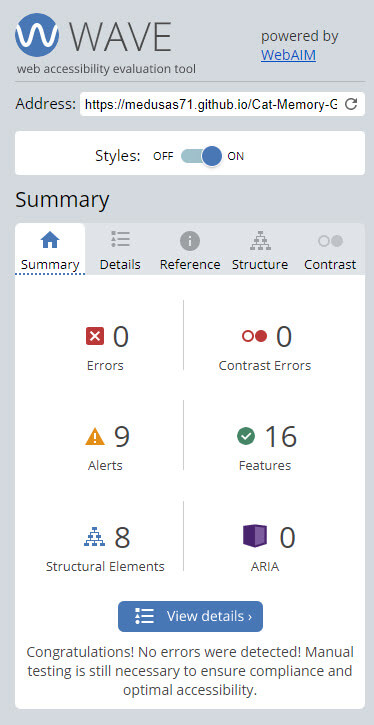
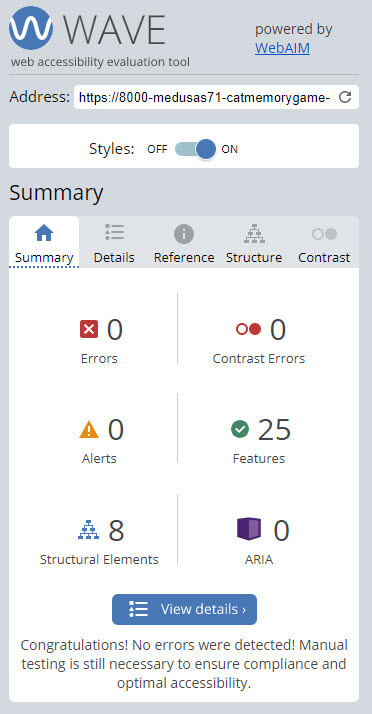
Added Wave Report and updated bugs/fixes to Testing.md

diff --git a/TESTING.md b/TESTING.md
@@ -103,25 +103,30 @@ Below is the lighthouse score for each page on mobile and desktop:
 ## Wave Report  
 
 * [Wave](https://wave.webaim.org/) was used to check for any accessibility issues on all pages. 
-The report came back with no errors and no contrast errors. There were alerts that displayed.  
-I have addressed each alert below:
+The report came back with no errors and no contrast errors. There was one alert displayed.  
+I have addressed the alert below:
 
 <details open>
 <summary><b>(click to expand or hide</b></summary>
 
 ### index.html  
 
+![Summary Home Page](./testing-images/wave/summary-home-page.jpg)
 
+![Details Home Page](./testing-images/wave/details-home-page.jpg)
+
+1 Alert displays:
+* 1 x Skipped heading level - I cannot locate where the heading level is skipped. As per the below screenshot there is in only one heading level on this page:
+
+![Heading Home Page](./testing-images/wave/heading-home-page.jpg)
 
 ### level1.html  
 
-
+![Summary Level 1](./testing-images/wave/summary-level1.jpg)
 
 ### level2.html
 
-
-
-
+![Summary Level 2](./testing-images/wave/summary-level2.jpg)
 
 </details> 
 
@@ -369,8 +374,18 @@ The issues that I had with JavaScript was working out how to write the code and 
 
   * I rechecked the code through the W3C HTML Validator and there were no errors found. So this fixed my issue.  
 
+**Wave Testing**  
+**Issue**:  
+Upon testing the pages in WAVE - Web Accessibility Evaluation Tool, I was advised that there were alerts on level 1 and level 2 stating that the 'nearby image has the same alternative text'. I originally had the card front, alt text, reading 'cat card' and the card back, alt text, reading 'card back'. 
+  
+* **Fix**: I spoke to Abi Harrison_alumna from Slack regarding accessibility and she advised to: 
+  * Include a descriptive alt text in the JavaScript against each card; 
+  * Change the alt text for the card front on Level 1 and Level 2 to be a placeholder as it is populated by JavaScript; and  
+  * Change the alt text for the card back on Level 1 and Level 2 to be descriptive and have a different alt text on each card.  
+  This fixed the issue on Wave and included blind or visually impaired users to play my game.
+
 **Console Log Testing**  
-  The game was tested whilst having the Console log open in Dev Tools on Chrome, to test for any console errors. A few errors were caught and these were discussed with my mentor as I could not work out how to rectify them.
+The game was tested whilst having the Console log open in Dev Tools on Chrome, to test for any console errors. A few errors were caught and these were discussed with my mentor as I could not work out how to rectify them.
 
   **Error One** 
   * Upon opening the home page, I was receiving a site.webmanifest 404 error. I googled the error but wasn't sure in how to fix this or how important the file was.
@@ -387,6 +402,6 @@ The issues that I had with JavaScript was working out how to write the code and 
 
   * **Fix**: I googled the error and found an answer on [Stack Overflow](https://stackoverflow.com/questions/69619035/error-with-permissions-policy-header-unrecognized-feature-interest-cohort) which advised me to ignore the error.
 
-  This is the only console error when playing the game.
+This is the only console error when playing the game.
 
   
